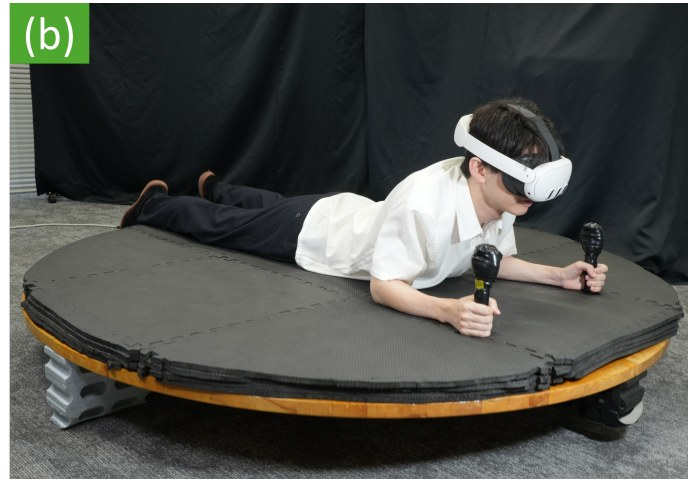
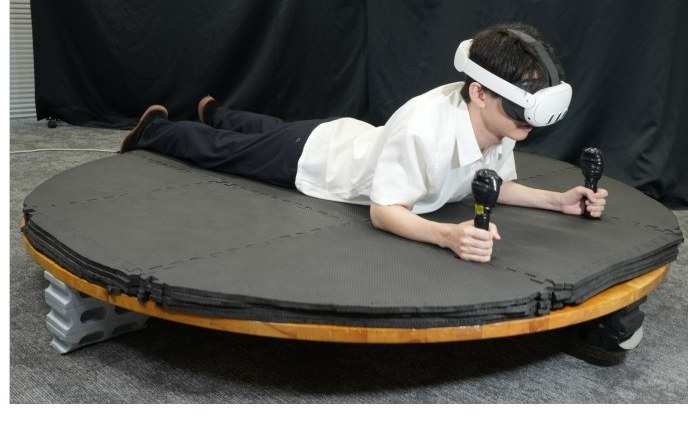
docs: 先頭の写真から図番号の表示を外す

diff --git a/docs/index.html b/docs/index.html
@@ -195,7 +195,7 @@ footer{padding:36px 0 56px;color:var(--sub);font-size:13px}
 
 <footer><div class="wrap">
   <p>立命館大学・大阪工業大学のチームによる作品です。ソースコードは研究室管理のため公開していません。</p>
-  <p>図と写真は上記VRST 2026論文（© 2026 the authors, <a href="https://creativecommons.org/licenses/by/4.0/">CC BY 4.0</a>）のFigure 1・2から引用しました。VR空間には Skybox Series Free（Avionx）と Fantastic City Generator（MasterPixel3D）を使用しています（Standard Unity Asset Store EULA）。</p>
+  <p>図と写真は上記VRST 2026論文（© 2026 the authors, <a href="https://creativecommons.org/licenses/by/4.0/">CC BY 4.0</a>）のFigure 1・2から引用しました（一部を切り出して掲載）。VR空間には Skybox Series Free（Avionx）と Fantastic City Generator（MasterPixel3D）を使用しています（Standard Unity Asset Store EULA）。</p>
 </div></footer>
 
 </body>
